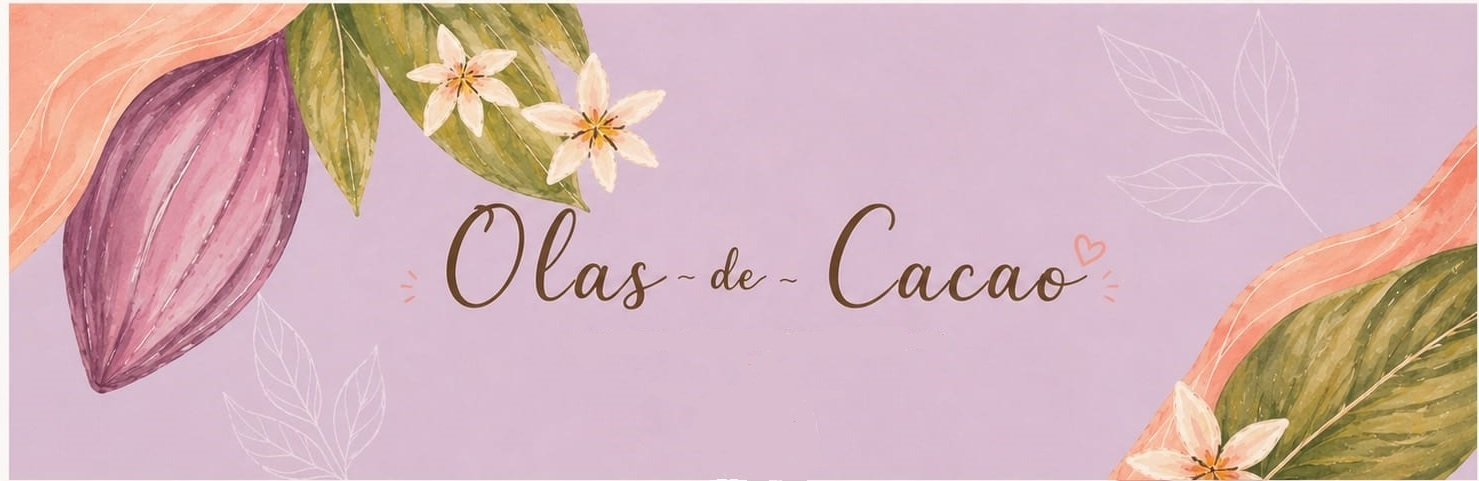
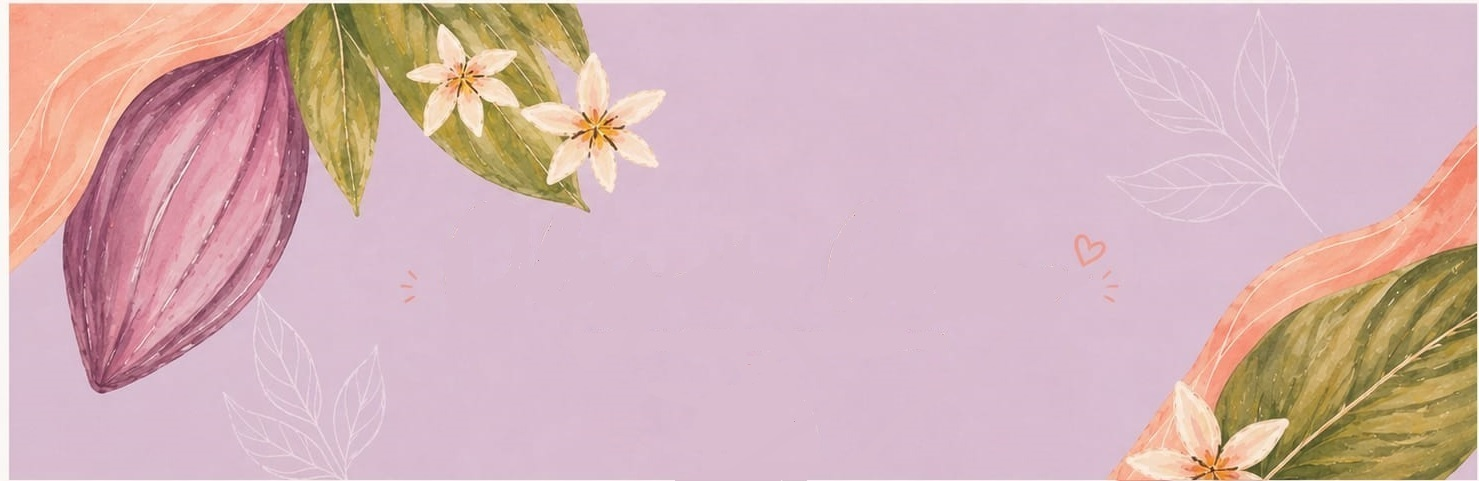
stetic

Changed region(s): [[0.2799, 0.4054, 0.5287, 0.6549], [0.5598, 0.4054, 0.7465, 0.6549], [0.4354, 0.9979, 0.5287, 1.0]]

diff --git a/style.css b/style.css
@@ -16,6 +16,7 @@
   --texto:       #4a3728;
   --blanco:      #fffaf5;
 }
+font-family: "Pinyon Script", cursive;
 
 /* ---- Reset básico ---- */
 * {
@@ -94,8 +95,16 @@ nav a:hover {
 nav a:hover::after {
   width: 100%;
 }
-
+.nav-logo {
+  font-family: "Pinyon Script", cursive;
+  font-size: 2rem;
+  color: #5a3e2b; /* el marrón del logo */
+}
 /* ===== HERO (sección inicio) ===== */
+header h1 {
+  font-family: "Pinyon Script", cursive;
+}
+
 #inicio {
   background-image: url('choco_4.jpeg');
   background-size: cover;

diff --git a/index.html b/index.html
@@ -5,6 +5,10 @@
     <meta name="viewport" content="width=device-width, initial-scale=1.0" />
     <title>Olas de Cacao — Chocolate que te hace bien</title>
     <link rel="stylesheet" href="style.css" />
+    <link rel="preconnect" href="https://fonts.googleapis.com">
+<link rel="preconnect" href="https://fonts.gstatic.com" crossorigin>
+<link href="https://fonts.googleapis.com/css2?family=Pinyon+Script&display=swap" rel="stylesheet">
+
   </head>
   <body>
 